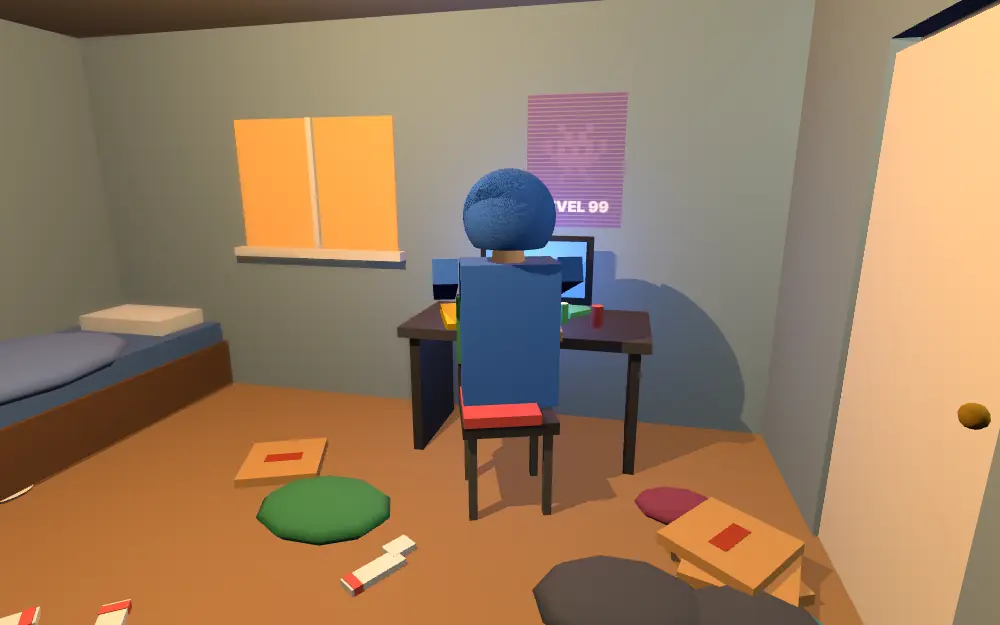
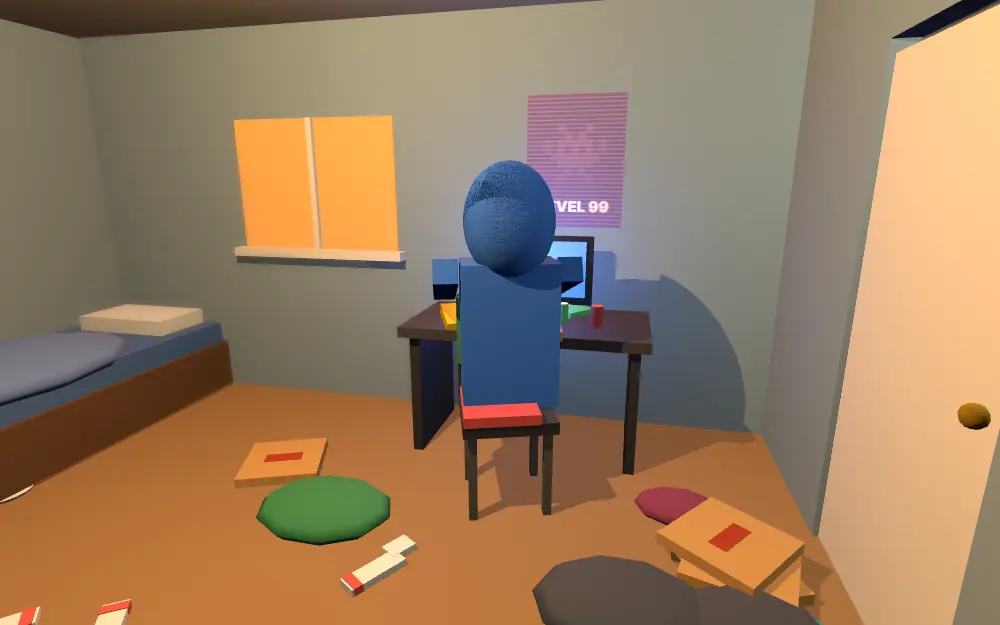
A-078 (del 1): introt v4 – rutorna 1–9, 11–12, mammas mimik och den nya huvan i hela spelet
- Huvan förlängd ner i tröjan (introFigur) – gäller du, brorsan och alla figurer med samma modell.
- Mimik som humor i poseFigur: snall, arg1, arg2, rasande, rasande+rok, forvanad, likgiltig. Rött bara på huvudet.
- Rutorna 2–9 renderade från planeringschattens vyer.json (VYER4): över axeln, lågt från golvet, från sidan,
  fredag med glid in mot mamma, den argaste med rök, du reser dig, ut förbi mamma (ny ruta 9). Du är likgiltig hela introt.
- Kalendern som liten overlay i hörnet MÅN → FRE. Ruta 7: bubblan till vänster, under röken.
- Ruta 11: ryggan sitter fast med axelremmar. Ruta 12: bredare bild där tippen syns vid sidan av skjulet.
- test-a078: facit (0ed11ca + kroken) sida vid sida med spelet i verktyg/a078/ (diff 0–1,1 %).
- test-a062v3 uppdaterad för menyn först och 14 rutor; sista rutan = spelets första bild 0,04 %.
- Rutorna 10 och 13–17 väntar på planeringschattens mockup.

Claude-Session: https://claude.ai/code/session_014156cp9JxbGsW1A8ZsF5gD

Changed region(s): [[0.465, 0.3648, 0.558, 0.4864], [0.465, 0.2432, 0.558, 0.3344], [0.651, 0.4256, 0.713, 0.5168]]

diff --git a/spel/printa-hem/spel.js b/spel/printa-hem/spel.js
@@ -11688,6 +11688,7 @@ const INTRO = [
   { lager: [{ id: 'spel', spel: 'start' }, { id: 'krita14', krita: 'skjul' }], rader: ['Tänk om det här kunde bli ett riktigt hem?', 'Utan mammas tjat.'] },
 ];
 /* A-062: rutorna 12–14 – en bild ur spelets egen kamera och krita som ritas på den */
+const GARD_KAM = [[3, 7, TOMT + 15], [-7, 1, 6], 68];   /* A-078: kameran i ruta 12 */
 const spelBildCache = {};
 function spelKamera(vy) {
   const cam = kamera.clone(); cam.rotation.order = 'YXZ';
@@ -11696,7 +11697,7 @@ function spelKamera(vy) {
     const fran = new THREE.Vector3(-1.5 - sk.x, 0, TOMT + 2.5 - sk.z).normalize();
     cam.position.set(sk.x + fran.x * 1.25 + fran.z * 0.35, sk.y + 0.42, sk.z + fran.z * 1.25 - fran.x * 0.35); cam.lookAt(sk.x, sk.y - 0.05, sk.z);
   }
-  else if (vy === 'gard') { cam.position.set(2.5, 5.5, TOMT + 9); cam.lookAt(1.5, 0, 5); cam.fov = 62; }   /* A-062 v3 ruta 11: bred bild från vägen, ingen cykel */
+  else if (vy === 'gard') { const k = GARD_KAM; cam.position.set(...k[0]); cam.lookAt(...k[1]); cam.fov = k[2]; }   /* A-078 ruta 12: tippen syns vid sidan av skjulet */   /* A-062 v3 ruta 11: bred bild från vägen, ingen cykel */
   else if (/^(tak|dorrhal|ratta)$/.test(vy)) {   /* A-062 v3 ruta 13: närbilder på skjulet */
     const zf = SKJUL.z + SKJUL.d / 2;
     if (vy === 'tak') { cam.position.set(SKJUL.x + 0.2, 1.2, SKJUL.z + 0.4); cam.lookAt(SKJUL.x - 0.1, SKJUL.h + 4, SKJUL.z - 0.9); }   // inifrån: hålet i taket mot himlen
@@ -11710,6 +11711,7 @@ function spelKamera(vy) {
 function spelBild(vy) {
   if (spelBildCache[vy]) return spelBildCache[vy];
   try {
+    if (vy === 'gard') try { ritaTippHog(0, true); } catch {}   /* A-078: berget på tippen ska synas i ruta 12 */
     const cam = spelKamera(vy), r = renderer, gs = r.getSize(new THREE.Vector2()), pr = r.getPixelRatio();
     const dold = (vy === 'gard' ? [vagCykel, malPil] : vy === 'start' ? [malPil] : /^(tak|dorrhal|ratta)$/.test(vy) ? [malPil, sangSpoke, sangSkylt, planMesh] : []).filter((o) => o?.visible);   /* närbilderna: inga spelskyltar */ dold.forEach((o) => { o.visible = false; });
     let ratta = null; if (vy === 'ratta') {   /* A-062 v3: en råtta tittar ut ur dörrhålet */
@@ -11961,7 +11963,7 @@ function visaIntroV2(klar) {
    intro (Enter hoppar över) → startmenyn → dagboken sida 1 (Börja) → spelet. Varje ruta har en fast längd,
    0,5 s tystnad innan texten, 0,3 s mellan raderna, och ingen ruta byts medan någon pratar.
    Mammas repliker är bubblor BREDVID huvudet (pilen mot henne) – huvudets plats kommer ur renderingen (BUB3). */
-const BUB3 = { v3dag2: [60.6, 36.5], v3dag3: [58, 38], v3dag4: [55.4, 39.6], v3dag5: [52.6, 41.1], v3dag6: [50.2, 43.1], v3kort7: [51.2, 43.1] };   // huvudet i % av bilden (verktyg/ai3.mjs PTS)
+const BUB3 = { v4dag2: [60.6, 36.5], v4dag3: [50, 33], v4dag4: [50, 40.9], v4dag5: [50, 43.5], v4dag6b: [50, 24.8], v4kort7: [50, 28.9], };   // huvudet i % av bilden (verktyg/ai3.mjs PTS)
 const IB3 = (namn, extra = {}) => ({ id: extra.id || namn, src: `intro/${namn}.webp`, ...extra });
 const KAL3 = (dag, fore) => ({ id: 'kal', kal: dag, fore, cls: 'vanster' });
 const IDE3 = {   /* ruta 12: idéskissen i vita konturer, i ordningen skräp → kvarn → filament → skrivare → allt man kan printa */
@@ -11980,13 +11982,14 @@ const IDE3 = {   /* ruta 12: idéskissen i vita konturer, i ordningen skräp →
 };
 const INTRO3 = [
   { tid: 3500, ljud: 'spel', lager: [IB3('v3rum1')], tal: [['berattare', 'Ditt rum.'], ['berattare', 'Ungefär som vanligt.']] },
-  { tid: 3000, lager: [IB3('v3dag2', { id: 'dag' }), KAL3('MÅNDAG')], tal: [['mamma', 'Snälla du, kan du inte städa ditt rum?', { b: 'v3dag2' }]] },
-  { tid: 1400, ljud: 'riv', lager: [IB3('v3dag3', { id: 'dag' }), KAL3('TISDAG', 'MÅNDAG')], tal: [['berattare', 'Hon sa det igen.'], ['mamma', 'STÄDA!', { b: 'v3dag3', cls: 'rop1' }]] },
-  { tid: 1400, ljud: 'riv', lager: [IB3('v3dag4', { id: 'dag' }), KAL3('ONSDAG', 'TISDAG')], tal: [['berattare', 'Och igen.'], ['mamma', 'STÄDA!!', { b: 'v3dag4', cls: 'rop2' }]] },
-  { tid: 1400, ljud: 'riv', lager: [IB3('v3dag5', { id: 'dag' }), KAL3('TORSDAG', 'ONSDAG')], tal: [['berattare', 'Och igen.'], ['mamma', 'STÄDA!!!', { b: 'v3dag5', cls: 'rop3' }]] },
-  { tid: 2500, ljud: 'dorr', lager: [IB3('v3dag6', { id: 'dag' }), IB3('v3dorr6', { cls: 'small' }), KAL3('FREDAG', 'TORSDAG')], tal: [['mamma', 'Det ser ut som en SOPTIPP här inne!', { b: 'v3dag6', fore: 500 }]] },
-  { tid: 3000, tyst: 1000, lager: [IB3('v3kort7'), { id: 'vinjett', vinjett: true }], tal: [['mamma', 'Du kan lika gärna BO på en soptipp!', { b: 'v3kort7', cls: 'rop2' }]] },
-  { tid: 4000, ljud: 'gitarr', lager: [IB3('v3kort8a', { r: 0 }), IB3('v3kort8b', { r: 1 })], tal: [['du', 'Okej.'], ['du', 'Då gör jag väl det.']] },
+  { tid: 3000, lager: [IB3('v4dag2', { id: 'dag' }), KAL3('MÅNDAG')], tal: [['mamma', 'Snälla du, kan du inte städa ditt rum?', { b: 'v4dag2' }]] },   /* A-078: introt v4 – mamma snäll */
+  { tid: 1400, ljud: 'riv', lager: [IB3('v4dag3', { id: 'dag' }), KAL3('TISDAG', 'MÅNDAG')], tal: [['berattare', 'Hon sa det igen.'], ['mamma', 'STÄDA!', { b: 'v4dag3', cls: 'rop1' }]] },   // över din axel, händerna i sidan (arg1)
+  { tid: 1400, ljud: 'riv', lager: [IB3('v4dag4', { id: 'dag' }), KAL3('ONSDAG', 'TISDAG')], tal: [['berattare', 'Och igen.'], ['mamma', 'STÄDA!!', { b: 'v4dag4', cls: 'rop2' }]] },   // lågt från golvet, hon pekar på högarna (arg2)
+  { tid: 1400, ljud: 'riv', lager: [IB3('v4dag5', { id: 'dag' }), KAL3('TORSDAG', 'ONSDAG')], tal: [['berattare', 'Och igen.'], ['mamma', 'STÄDA!!!', { b: 'v4dag5', cls: 'rop3' }]] },   // från sidan, armen rakt upp (arg2)
+  { tid: 3200, ljud: 'dorr', lager: [IB3('v4dag6a', { id: 'dag', cls: 'glidin' }), IB3('v4dorr6', { cls: 'small' }), IB3('v4dag6b', { r: 0, cls: 'glidsen' }), KAL3('FREDAG', 'TORSDAG')], tal: [['mamma', 'Det ser ut som en SOPTIPP här inne!', { b: 'v4dag6b', fore: 1700 }]] },   // dörren smäller upp, kameran glider in mot henne (rasande)
+  { tid: 3000, tyst: 1000, lager: [IB3('v4kort7'), { id: 'vinjett', vinjett: true }], tal: [['mamma', 'Du kan lika gärna BO på en soptipp!', { b: 'v4kort7', cls: 'rop1', vanster: true }]] },   // rakt in i ansiktet, fingret mot kameran (rasande+rök)
+  { tid: 4000, ljud: 'gitarr', lager: [IB3('v4kort8')], tal: [['du', 'Okej.'], ['du', 'Då gör jag väl det.']] },   // du reser dig vid datorn, mamma pekar ut genom dörren
+  { tid: 2600, lager: [IB3('v4kort9', { cls: 'folj' })], tal: [] },   // A-078 ruta 9: ut förbi mamma, kameran följer med dig ut (mamma förvånad)
   { tid: 4000, ljud: 'band', lager: [IB3('v3pack9')], tal: [['du', 'Jag packar ryggan med sånt som kan vara bra att ha.'], ['du', 'Och surrar fast brorsans gamla 3D-skrivare på cykeln.']] },
   { tid: 5000, musik: true, lager: [{ id: 'vagloop', loop: 'intro/vag.webp' }, { id: 'cyklist', sprite: 'intro/cyklist-tramp.webp', n: 4 }], tal: [['berattare', 'Förbi skolan.'], ['berattare', 'Förbi affären.'], ['berattare', 'Förbi där husen tar slut.']] },
   { tid: 3500, ljud: 'masar', lager: [{ id: 'spelgard', spel: 'gard' }], tal: [['berattare', 'Vid soptippen står ett gammalt skjul.'], ['berattare', 'Och en gård full av skräp.']] },
@@ -11996,7 +11999,13 @@ const INTRO3 = [
 ];
 const introCss3 = document.createElement('style');
 introCss3.textContent = `
-.ph-il.kal.vanster{right:auto;left:5%}
+.ph-il.kal.vanster{right:auto;left:4%;top:5%;width:11%}
+.ph-il.glidin{transform-origin:50% 37%;animation:phGlidIn 2.4s .9s ease-in-out forwards}
+@keyframes phGlidIn{to{transform:scale(1.5)}}
+.ph-il.glidsen{opacity:0;animation:phGlidSen .7s 1.1s ease-in forwards}
+@keyframes phGlidSen{to{opacity:1}}
+.ph-il.folj{transform-origin:85% 40%;animation:phFolj 2.6s ease-in-out forwards}
+@keyframes phFolj{from{transform:scale(1.08) translateX(3%)}to{transform:scale(1.18) translateX(-4%)}}
 .ph-bub{position:absolute;z-index:6;background:#fff;color:#1d1a24;font:800 clamp(14px,2.1vw,22px)/1.2 "Comic Sans MS","Chalkboard SE",system-ui;padding:.45em .8em;border-radius:16px;box-shadow:0 4px 0 rgba(0,0,0,.25);max-width:36%;animation:phBub .25s ease-out}
 .ph-bub:after{content:"";position:absolute;top:50%;margin-top:-10px;border:10px solid transparent}
 .ph-bub.hoger:after{left:-24px;border-right:16px solid #fff}.ph-bub.vanster:after{right:-24px;border-left:16px solid #fff}
@@ -12061,7 +12070,8 @@ function visaIntro3(klar, o = {}) {
   const bubbla = (p, text, o) => {
     const h = BUB3[o.b] || [50, 30], hoger = h[0] < 58, b = document.createElement('div');
     b.className = `ph-bub hoger ${o.cls || ''}`; void hoger; b.textContent = text;
-    b.style.top = `${Math.max(3, h[1] - 9)}%`; b.style.left = `${h[0] + 8}%`; b.style.maxWidth = `${Math.max(22, 98 - h[0] - 8)}%`;   /* alltid till höger om mamma, aldrig över ditt eller hennes ansikte */
+    b.style.top = `${Math.max(3, h[1] - 9)}%`; b.style.left = `${h[0] + 8}%`; b.style.maxWidth = `${Math.max(22, 98 - h[0] - 8)}%`;
+    if (o.vanster) { b.className = `ph-bub vanster ${o.cls || ''}`; b.style.left = 'auto'; b.style.right = `${100 - h[0] + 13}%`; b.style.top = `${h[1] + 6}%`; b.style.maxWidth = `${Math.max(22, h[0] - 15)}%`; }   /* A-078 ruta 7: ansiktet fyller mitten – bubblan till vänster, under röken */   /* alltid till höger om mamma, aldrig över ditt eller hennes ansikte */
     scenEl.appendChild(b);
     requestAnimationFrame(() => { const s = scenEl.getBoundingClientRect(), r = b.getBoundingClientRect(); logg('bubbla', JSON.stringify({ bub: [(r.left - s.left) / s.width * 100, (r.top - s.top) / s.height * 100, (r.right - s.left) / s.width * 100, (r.bottom - s.top) / s.height * 100].map((v) => +v.toFixed(1)), huvud: h, text })); });
     return b;
@@ -14025,7 +14035,7 @@ function introFigur(vem) {
     const mossa = new THREE.Mesh(new THREE.SphereGeometry(0.19, 16, 10, 0, Math.PI * 2, 0, Math.PI * 0.45), mat(0x2f6a5a)); mossa.position.y = 0.035; huvud.add(mossa);
     huvud.add(at(cyl(0.185, 0.19, 0.06, mat(0x285a4c)), 0, 0.06, 0)); huvud.add(at(new THREE.Mesh(new THREE.SphereGeometry(0.05, 8, 6), mat(0xd8d0c0)), 0, 0.22, 0));
   }
-  if (vem !== 'mamma' && !helen) { const luva = new THREE.Mesh(new THREE.SphereGeometry(0.215, 16, 12, Math.PI - 0.5, Math.PI + 1.0, 0, Math.PI * 0.72), mat(0x2d6cdf, { side: THREE.DoubleSide })); luva.position.set(0, -0.01, -0.03); huvud.add(luva); }
+  if (vem !== 'mamma' && !helen) { const luva = new THREE.Mesh(new THREE.SphereGeometry(0.215, 18, 14, Math.PI - 0.55, Math.PI + 1.1, 0, Math.PI * 0.93), mat(0x2d6cdf, { side: THREE.DoubleSide })); luva.scale.set(1, 1.28, 1.02); luva.position.set(0, -0.035, -0.03); huvud.add(luva); }   /* A-078: huvan förlängd ner i tröjan (Jesper 00:59: "så ska de vara framåt") */
   const fore = huvud.children.length;
   ansikte(huvud, 0, { bryn: vem === 'mamma' ? 0.12 : -0.05, brynFarg: helen ? 0x8a857c : 0x4a2e1a, nasa: 0xd9a07a, munFarg: vem === 'mamma' ? 0xb83a52 : 0x5a2a20 });
   const delar = huvud.children.slice(fore), bryn = delar.filter((o) => o.geometry?.parameters?.width === 0.075), mun = delar[delar.length - 1];
@@ -14132,14 +14142,43 @@ function byggIntroRum() {
   sc.add(sack);
   const skriv = gammal.clone(true); skriv.position.set(0, 0, 0); sc.add(skriv);
   const damm = new THREE.Group(); for (let i = 0; i < 14; i++) { const d = new THREE.Mesh(new THREE.SphereGeometry(0.05 + r() * 0.06, 6, 4), new THREE.MeshStandardMaterial({ color: 0xd9cfb8, transparent: true, opacity: 0.55 })); d.position.set(2.3 + r() * 0.5, r() * 1.8, -0.9 + r() * 1.1); damm.add(d); } sc.add(damm);
-  return { sc, dorr, kal, mamma, du, sack, skriv, damm, stok, lampa };
+  return { sc, dorr, kal, mamma, du, sack, skriv, damm, stok, lampa, stol };
 }
 function introKamera(pos, mal, fov = 50, aspect = 1.6) { const k = new THREE.PerspectiveCamera(fov, aspect, 0.1, 200); k.position.set(...pos); k.lookAt(...mal); return k; }
 // humor: 'neutral', 'arg' (ögonbryn ner), 'rasande' (rött ansikte). pekaMot: en punkt i världen som högra armen pekar mot.
+/* A-078: mimik – snall, arg1, arg2, rasande, rasande+rok, forvanad, likgiltig (facit: mockup-intro, kroken __introDev.mimik). Rött bara på huvudet. */
+const MIMIK = ['snall', 'arg1', 'arg2', 'rasande', 'rasande+rok', 'forvanad', 'likgiltig'];
+function figurMimik(f, m) {
+  const u = f.userData; if (!u.mimikDelar) u.mimikDelar = [];
+  u.mimikDelar.forEach((o) => o.parent?.remove(o)); u.mimikDelar = []; u.mun.visible = true; u.mun.rotation.set(0, 0, 0);
+  if (!u.huvudHud) { u.huvudHud = u.hud.clone(); u.huvud.traverse((o) => { if (o.isMesh && o.material === u.hud) o.material = u.huvudHud; }); }   /* eget material för ansiktet, så att händerna inte blir röda */
+  u.huvudHud.color.copy(u.hud.color);
+  if (!m) return;
+  const add = (o, p = u.huvud) => { p.add(o); u.mimikDelar.push(o); return o; };
+  const bryn = (rot, y = 0.08) => u.bryn.forEach((b) => { const v = b.position.x < 0; b.rotation.z = v ? rot : -rot; b.position.y = y; b.scale.set(1, 1, 1); });
+  const munPos = u.mun.position.clone(), munMat = u.mun.material;
+  u.hud.color.setHex(u.hudFarg); u.huvudHud.color.setHex(u.hudFarg);
+  if (m === 'snall') { bryn(0.15, 0.09); u.mun.visible = false; const t = add(new THREE.Mesh(new THREE.TorusGeometry(0.045, 0.011, 6, 14, Math.PI), munMat)); t.position.copy(munPos).add(new THREE.Vector3(0, 0.02, 0)); t.rotation.z = Math.PI; }
+  if (m === 'arg1') { bryn(-0.35, 0.075); u.mun.scale.set(1.2, 0.12, 0.4); }
+  if (m === 'arg2') { bryn(-0.55, 0.068); u.mun.visible = false; const t = add(new THREE.Mesh(new THREE.TorusGeometry(0.045, 0.012, 6, 14, Math.PI), munMat)); t.position.copy(munPos).add(new THREE.Vector3(0, -0.02, 0)); }
+  if (m === 'rasande' || m === 'rasande+rok') {
+    bryn(-0.7, 0.062); u.huvudHud.color.setHex(0xe0503c); u.mun.scale.set(1.5, 0.9, 0.4);
+    const tand = add(box(0.07, 0.015, 0.01, mat(0xffffff))); tand.position.copy(munPos).add(new THREE.Vector3(0, 0.022, 0.02));
+    if (m === 'rasande+rok') for (const sx of [-1, 1]) for (let i = 0; i < 4; i++) { const r = add(new THREE.Mesh(new THREE.SphereGeometry(0.035 + i * 0.022, 8, 6), new THREE.MeshStandardMaterial({ color: 0xf2f2f2, transparent: true, opacity: 0.85 - i * 0.15 }))); r.position.set(sx * (0.2 + i * 0.06), 0.02 + i * 0.07, -0.02); }
+  }
+  if (m === 'forvanad') {
+    bryn(0.35, 0.135); u.bryn.forEach((b) => { b.scale.set(1.15, 1, 1); }); u.mun.visible = false; const p = munPos.clone().add(new THREE.Vector3(0, -0.012, 0.006));
+    const inne = add(new THREE.Mesh(new THREE.CircleGeometry(0.042, 20), new THREE.MeshBasicMaterial({ color: 0x1a0608 }))); inne.scale.set(0.85, 1.25, 1); inne.position.copy(p).add(new THREE.Vector3(0, 0, 0.006));
+    const tunga = add(new THREE.Mesh(new THREE.CircleGeometry(0.022, 14, 0, Math.PI), mat(0xc84a5a))); tunga.rotation.z = Math.PI; tunga.position.copy(p).add(new THREE.Vector3(0, -0.028, 0.009));
+    const l = add(new THREE.Mesh(new THREE.TorusGeometry(0.043, 0.011, 8, 20), munMat)); l.scale.set(0.85, 1.25, 1); l.position.copy(p).add(new THREE.Vector3(0, 0, 0.004));
+  }
+  if (m === 'likgiltig') { bryn(0, 0.075); u.mun.scale.set(0.9, 0.08, 0.4); }
+}
 function poseFigur(f, { x = 0, z = 0, rot = 0, motKamera = null, pekaMot = null, armarUpp = false, handerISidan = false, humor = 'neutral', synlig = true } = {}) {
   f.visible = synlig; f.position.set(x, 0, z); f.rotation.set(0, motKamera ? Math.atan2(motKamera[0] - x, motKamera[2] - z) : rot, 0);
   const u = f.userData; u.hoger.quaternion.identity(); u.vanster.quaternion.identity(); u.huvud.rotation.set(0, 0, 0); u.finger.visible = false;
-  u.hud.color.setHex(humor === 'rasande' ? 0xec8a78 : u.hudFarg);
+  figurMimik(f, null); u.bryn.forEach((b) => b.scale.set(1, 1, 1));
+  u.hud.color.setHex(u.hudFarg);   /* A-078: rött ansikte sköts av figurMimik, bara på huvudet */
   u.bryn.forEach((b) => { const v = b.position.x < 0; b.rotation.z = humor === 'neutral' ? (v ? 0.12 : -0.12) : (v ? -0.45 : 0.45); b.position.y = humor === 'neutral' ? 0.085 : 0.07; });
   u.mun.scale.set(humor === 'rasande' ? 1.1 : 1.3, humor === 'rasande' ? 0.75 : humor === 'arg' ? 0.15 : 0.25, 0.4);
   if (handerISidan) { u.hoger.rotation.set(0, 0, 0.55); u.vanster.rotation.set(0, 0, -0.55); }
@@ -14150,6 +14189,8 @@ function poseFigur(f, { x = 0, z = 0, rot = 0, motKamera = null, pekaMot = null,
     const lokal = dir.applyQuaternion(f.quaternion.clone().invert());
     u.hoger.quaternion.setFromUnitVectors(new THREE.Vector3(0, -1, 0), lokal); u.finger.visible = true;
   }
+  if (MIMIK.includes(humor)) figurMimik(f, humor);
+  else if (u.huvudHud) u.huvudHud.color.copy(u.hud.color);
 }
 // rendera en scen i bredd × höjd och gör bakgrunden lite suddig (skärpedjup ungefär). nara = suddigt även nära kameran.
 function introRendera(sc, kam, W, H, fokus, { nara = false, gra = 0 } = {}) {
@@ -14320,15 +14361,66 @@ function duPaCykel(medSkrivare = true, fas = 0) {
   u.ben[0].rotation.x = -0.55 - 0.35 * Math.sin(v); u.ben[1].rotation.x = -0.55 + 0.35 * Math.sin(v);
   for (const a of [u.hoger, u.vanster]) a.quaternion.setFromUnitVectors(new THREE.Vector3(0, -1, 0), new THREE.Vector3(0, -0.45, 1).normalize());
   cy.children.filter((o) => Math.abs(o.rotation.z - 0.5) < 0.01).forEach((o) => { o.visible = false; });   // stödet uppfällt
-  const sack = introRum.sack.clone(true); sack.visible = true; sack.position.set(0, 1.0, -0.33); sack.rotation.y = Math.PI; sack.scale.setScalar(0.95); du.add(sack);
+  const sack = introRum.sack.clone(true); sack.visible = true; sack.position.set(0, 1.0, -0.25); sack.rotation.y = Math.PI; sack.scale.setScalar(0.95); du.add(sack);
+  const rem = mat(0x2a2a2a); for (const x of [-0.13, 0.13]) { du.add(at(box(0.06, 0.42, 0.025, rem), x, 1.32, 0.148)); du.add(at(box(0.07, 0.025, 0.31, rem), x, 1.56, 0)); }
+  for (const x of [-0.24, 0.24]) { const r = at(box(0.025, 0.06, 0.34, rem), x, 1.3, -0.02); r.rotation.x = -0.75; du.add(r); }   /* A-078 ruta 11: ryggan sitter fast med axelremmar */
   return g;
 }
 const DU_CYKEL_KAM = () => introKamera([0, 0.95, 3.4], [0, 0.95, 0], 38, 1);   // från sidan: cykeln åker åt höger i bilden
+/* A-078: introt v4 – kameror och poser per ruta (facit: mockup-intro, vyer.json; mimik som humor). Du är likgiltig genom hela introt. */
+const VYER4 = {
+  v4dag3: {"kam":[[0.55,1.45,-0.35],[2.35,1.45,-0.45]],"fov":55,"stok":0.4,"du":{"x":1.0,"z":-0.95,"rot":3.491592653589793,"sitt":true,"lookAt":[2.3,1.5,-0.4],"humor":"likgiltig"},"mamma":{"x":2.35,"z":-0.45,"motKamera":[1.0,0,-0.95],"humor":"arg1","handerISidan":true,"lookAt":[1.0,1.15,-0.95]},"fokus":1.9},   // 3-tisdag
+  v4dag4: {"kam":[[1.55,0.35,0.55],[2.25,1.5,-0.4]],"fov":60,"stok":0.6,"du":{"x":1.0,"z":-0.95,"rot":3.491592653589793,"sitt":true,"lookAt":[2.3,1.5,-0.4],"humor":"likgiltig"},"mamma":{"x":2.25,"z":-0.4,"motKamera":[1.0,0,0.5],"humor":"arg2","pekaMot":[1.2,0.0,0.7],"lookAt":[1.0,1.15,-0.95]},"fokus":1.6},   // 4-onsdag
+  v4dag5: {"kam":[[0.95,1.35,0.25],[2.15,1.65,-0.45]],"fov":64,"stok":0.85,"du":{"x":1.0,"z":-0.95,"rot":3.491592653589793,"sitt":true,"lookAt":[2.3,1.5,-0.4],"humor":"likgiltig"},"mamma":{"x":2.15,"z":-0.45,"motKamera":[1.0,0,-0.95],"humor":"arg2","armarUpp":true,"lookAt":[1.0,1.15,-0.95]},"fokus":1.4},   // 5-torsdag
+  v4dag6a: {"kam":[[0.0,1.55,1.3],[2.2,1.4,-0.4]],"fov":56,"stok":1,"du":{"x":1.0,"z":-0.95,"rot":3.491592653589793,"sitt":true,"lookAt":[2.3,1.5,-0.4],"humor":"likgiltig"},"mamma":{"x":2.2,"z":-0.4,"motKamera":[1.0,0,-0.95],"humor":"rasande","pekaMot":[1.0,1.15,-0.95],"lookAt":[1.0,1.15,-0.95]},"fokus":2.6},   // 6a-fredag
+  v4dag6b: {"kam":[[1.25,1.55,0.35],[2.2,1.45,-0.4]],"fov":56,"stok":1,"du":{"x":1.0,"z":-0.95,"rot":3.491592653589793,"sitt":true,"lookAt":[2.3,1.5,-0.4],"humor":"likgiltig"},"mamma":{"x":2.2,"z":-0.4,"motKamera":[1.0,0,-0.95],"humor":"rasande","pekaMot":[1.0,1.15,-0.95],"lookAt":[1.0,1.15,-0.95]},"fokus":1.3},   // 6b-fredag-nara
+  v4kort7: {"kam":[[1.2,1.5,-0.3],[2.25,1.55,-0.4]],"fov":52,"stok":1,"lampa":9,"mamma":{"x":2.25,"z":-0.4,"motKamera":[1.55,0,-0.32],"humor":"rasande+rok","pekaMot":[1.2,1.45,-0.15],"lookAt":[1.2,1.5,-0.3]},"fokus":1.0,"nara":true},   // 7-argast
+  v4kort8: {"kam":[[-0.9,1.25,-0.55],[1.6,1.05,-0.6]],"fov":58,"stok":1,"du":{"x":1.0,"z":-0.95,"motKamera":[2.05,0,0.45],"lookAt":[2.05,1.55,0.45],"humor":"likgiltig"},"mamma":{"x":2.05,"z":0.45,"motKamera":[0.4,0,-0.9],"humor":"rasande","pekaVanster":[3.9,1.4,-0.45],"lookAt":[1.0,1.45,-0.95]},"fokus":2.6,"stol":[1.75,-1.5,-0.6]},   // 8-reser-sig
+  v4kort9: {"kam":[[4.5,1.55,-0.95],[2.5,1.4,-0.35]],"fov":58,"stok":1,"du":{"x":3.5,"z":-1.3,"motKamera":[5.5,0,-1.5],"steg":true,"humor":"likgiltig"},"mamma":{"x":2.45,"z":0.0,"motKamera":[3.55,0,-1.45],"chock":true,"lookAt":[3.55,1.5,-1.45],"humor":"forvanad"},"fokus":1.9},   // 9-ut-forbi
+};
+/* A-078: rendera en vy ur VYER4 i intro-rummet (samma steg som planeringschattens krok) */
+function introVy4(o, W, H, matt) {
+  const R = introRum;
+  R.dorr.rotation.y = o.dorr ?? -1.6; R.damm.visible = false; R.sack.visible = false; R.skriv.visible = false; R.lampa.intensity = o.lampa ?? 12;
+  R.stok.forEach((x, i) => { x.visible = i < R.stok.length * (o.stok ?? 0.6); }); R.kal.visible = false;
+  const st = R.stol; if (st) { st.userData.hem ||= [st.position.x, st.position.z, st.rotation.y]; const [x, z, r] = o.stol || st.userData.hem; st.position.x = x; st.position.z = z; st.rotation.y = r; }
+  poseFigur(R.du, { synlig: false }); poseFigur(R.mamma, { synlig: false });
+  R.du.position.y = 0; R.du.userData.ben.forEach((b) => { b.rotation.x = 0; });
+  if (o.du) {
+    poseFigur(R.du, o.du); const u = R.du.userData;
+    if (o.du.sitt) { R.du.position.y = -0.33; u.ben.forEach((b) => { b.rotation.x = -Math.PI / 2; }); for (const a of [u.hoger, u.vanster]) a.quaternion.setFromUnitVectors(new THREE.Vector3(0, -1, 0), new THREE.Vector3(0, -0.3, 1).normalize()); }
+    if (o.du.lookAt) u.huvud.lookAt(...o.du.lookAt);
+    if (o.du.steg) { u.ben[0].rotation.x = 0.45; u.ben[1].rotation.x = -0.45; }
+  }
+  if (o.mamma) {
+    const f = R.mamma, u = f.userData; poseFigur(f, o.mamma); if (o.mamma.lookAt) u.huvud.lookAt(...o.mamma.lookAt);
+    if (o.mamma.pekaVanster) { f.updateMatrixWorld(true); const axel = u.vanster.getWorldPosition(new THREE.Vector3()), dir = new THREE.Vector3(...o.mamma.pekaVanster).sub(axel).normalize().applyQuaternion(f.quaternion.clone().invert()); u.vanster.quaternion.setFromUnitVectors(new THREE.Vector3(0, -1, 0), dir); }
+  }
+  const kam = introKamera(o.kam[0], o.kam[1], o.fov || 55, W / H);
+  const c = matt ? matta(R.sc, kam, W, H, matt) : introRendera(R.sc, kam, W, H, o.fokus || 2.2, { nara: !!o.nara });
+  const pts = {}; if (o.mamma) { R.mamma.updateMatrixWorld(true); const p = R.mamma.userData.huvud.getWorldPosition(new THREE.Vector3()).project(kam); pts.huvud = [+((p.x + 1) / 2 * 100).toFixed(1), +((1 - p.y) / 2 * 100).toFixed(1)]; }
+  if (o.du) { R.du.updateMatrixWorld(true); const p = R.du.userData.huvud.getWorldPosition(new THREE.Vector3()).project(kam); pts.du = [+((p.x + 1) / 2 * 100).toFixed(1), +((1 - p.y) / 2 * 100).toFixed(1)]; }
+  return { c, pts };
+}
+/* A-078 test: närbilder av mimiken (samma vinkel som facit p0–p6) */
+function mimikBilder() {
+  if (!introRum) introRum = byggIntroRum();
+  const ut = {}, kam = [[1.3, 1.62, -0.36], [2.2, 1.68, -0.4]];
+  [['p0-snall', 'snall'], ['p1-arg1', 'arg1'], ['p2-arg2', 'arg2'], ['p3-rasande', 'rasande'], ['p4-rasande+rok', 'rasande+rok'], ['p5-forvanad', 'forvanad'], ['p6-du-likgiltig', 'likgiltig', true]].forEach(([n, m, du]) => {
+    ut[n] = introVy4({ kam, fov: du ? 40 : 34, stok: 1, fokus: 0.9, [du ? 'du' : 'mamma']: { x: 2.2, z: -0.4, motKamera: [1.3, 0, -0.36], lookAt: [1.3, 1.62, -0.36], humor: m } }, 1000, 625).c.toDataURL('image/jpeg', 0.9);
+  });
+  {   /* spelets figurer med samma modell: Helen, brorsan (huvan), mamma, du */
+    const sc = introLjusScen(0xa8d4f0), fig = [['helen', 'snall'], ['bror', 'snall'], ['mamma', 'forvanad'], ['du', 'likgiltig']].map(([v, m], i) => { const f = introFigur(v); poseFigur(f, { x: -1.5 + i, z: 0, motKamera: [0, 0, 4], humor: m }); sc.add(f); return f; });
+    sc.add(at(box(8, 0.05, 4, mat(0x6fae4a)), 0, -0.025, 0));
+    ut['figurer'] = introRendera(sc, introKamera([0.6, 1.6, 3.6], [0, 1.3, 0], 50, 1.6), 1000, 625, 3.6).toDataURL('image/jpeg', 0.9); void fig;
+  }
+  return ut;
+}
 function introLager(namn, W = 1000, H = 625) {
   if (!introRum) introRum = byggIntroRum();
   const R = introRum, sc = R.sc;
   const stok = (fran, till) => R.stok.forEach((o, i) => { o.visible = i >= R.stok.length * fran && i < R.stok.length * till; });
-  const aterstall = () => { R.dorr.rotation.y = -1.25; R.damm.visible = false; R.sack.visible = false; R.skriv.visible = false; R.lampa.intensity = 14; poseFigur(R.du, { synlig: false }); poseFigur(R.mamma, { synlig: false }); stok(0, 1); };
+  const aterstall = () => { if (R.stol.userData.hem) { const [x, z, r] = R.stol.userData.hem; R.stol.position.x = x; R.stol.position.z = z; R.stol.rotation.y = r; } R.dorr.rotation.y = -1.25; R.damm.visible = false; R.sack.visible = false; R.skriv.visible = false; R.lampa.intensity = 14; poseFigur(R.du, { synlig: false }); poseFigur(R.mamma, { synlig: false }); stok(0, 1); };
   aterstall();
   const kamDorr = [1.45, 1.55, 0.45], mammaDorr = [2.5, -0.4], kd = () => introKamera(kamDorr, [mammaDorr[0], 1.3, mammaDorr[1]], 58, W / H);
   R.kal.visible = !/^(rum|stok|mamma|dorr|v3dag|v3dorr)/.test(namn) || namn === 'rum1';   // kalendern är ett eget lager (SVG) i kort 2–6
@@ -14370,10 +14462,17 @@ function introLager(namn, W = 1000, H = 625) {
     return ut(introRendera(sc, k, W, H, 2.1, { nara: true }));
   }
   /* A-062 v3: nya bilder – du vid datorn, mamma som kommer närmare och lägre för varje dag, ruta 7, 8 och 9 */
-  const sitt = (f, x, z, rot) => { poseFigur(f, { x, z, rot }); f.position.y = -0.33; const u = f.userData; u.ben.forEach((b) => { b.rotation.x = -Math.PI / 2; }); for (const a of [u.hoger, u.vanster]) a.quaternion.setFromUnitVectors(new THREE.Vector3(0, -1, 0), new THREE.Vector3(0, -0.35, 1).normalize()); };
+  const sitt = (f, x, z, rot) => { poseFigur(f, { x, z, rot, humor: f === R.du ? 'likgiltig' : 'neutral' }); f.position.y = -0.33; const u = f.userData; u.ben.forEach((b) => { b.rotation.x = -Math.PI / 2; }); for (const a of [u.hoger, u.vanster]) a.quaternion.setFromUnitVectors(new THREE.Vector3(0, -1, 0), new THREE.Vector3(0, -0.35, 1).normalize()); };
   const huvudPts = (kam, f) => { f.updateMatrixWorld(true); const v = f.userData.huvud.getWorldPosition(new THREE.Vector3()).project(kam); return { huvud: [+((v.x + 1) / 2 * 100).toFixed(1), +((1 - v.y) / 2 * 100).toFixed(1)] }; };
   const DU_STOL = [1.0, -0.95], DU_HUVUD = [1.0, 1.25, -0.95];   /* Jesper 15:56: mamma pratar med dig vid datorn – hon tittar på dig, inte in i rummet */
   const DAGKAM = (k) => { const t = k / 4, lerp = (a, b) => a + (b - a) * t; return introKamera([lerp(-0.9, 0.2), lerp(1.6, 0.55), lerp(1.5, 0.7)], [lerp(1.85, 2.05), lerp(1.25, 1.45), lerp(-0.75, -0.55)], lerp(56, 70), W / H); };
+  if (VYER4[namn]) { const { c, pts } = introVy4(VYER4[namn], W, H); return ut(c, pts); }
+  if (namn === 'v4dorr6') { const o = { ...VYER4.v4dag6a, dorr: 0 }; const { c } = introVy4(o, W, H, [R.dorr]); return ut(c); }   // stängd dörr som smäller upp i ruta 6
+  if (namn === 'v4dag2') {   // ruta 2 som förut, men mamma snäll
+    const kam = DAGKAM(0); stok(0, 0.25); sitt(R.du, DU_STOL[0], DU_STOL[1], Math.PI + 0.35); R.dorr.rotation.y = -1.6;
+    poseFigur(R.mamma, { x: mammaDorr[0], z: mammaDorr[1], motKamera: [DU_STOL[0], 0, DU_STOL[1]], humor: 'snall' }); R.mamma.userData.huvud.lookAt(...DU_HUVUD);
+    return ut(introRendera(sc, kam, W, H, 2.3), huvudPts(kam, R.mamma));
+  }
   if (namn === 'v3rum1') { stok(0, 1); R.dorr.rotation.y = 0; sitt(R.du, 1.0, -0.95, Math.PI + 0.35); return ut(introRendera(sc, introKamera([1.55, 1.6, 1.55], [0.9, 0.9, -1.2], 60, W / H), W, H, 2.6)); }
   if (/^v3dag[2-6]$/.test(namn)) {
     const k = +namn[5] - 2, kam = DAGKAM(k); stok(0, [0.25, 0.4, 0.6, 0.85, 1][k]);
@@ -15700,7 +15799,7 @@ function malKontrakt(st = STEG[S.steg]) {
 window.__printahem = { renderer, saljTillAli: (t, n) => saljTillAli(t, n), saljPris: (t) => saljPris(t), aliReplNu: () => aliRepl, krT, kollaPrestationer: () => kollaPrestationer(), B, gruvTillGrotta: () => { gruvFard = { t: GRUV_SLUT_T, ner: true }; gruvLage = 'fard'; gruvFramme(); return gruvLage; }, gruvFart: (t, n) => gruvFart(t, n), gruvKameraVid: (t, ner = true) => { const g = gruvFard; gruvFard = { t, ner }; gruvPlacera(gruvVagn, t, ner ? 1 : -1); gruvKamera(); gruvFard = g; }, gruvAk: (ner) => gruvAk(ner), gruvLage: () => gruvLage, gruvFard: () => gruvFard, gruvScen, GRUV_BANA, GRUV_LANGD, GRUV_GC, GRUV_SLUT_T, gruvVagn, bergYta, bengtHus, bengtTradgard, slyKlumpar, sagaSly: (kl) => sagaSly(kl), solparkStor: () => solparkStor(), uppdateraRitning: (dt) => uppdateraRitning(dt), SVACKA, GRUVA, SVACKA_VAG, svackaHojd, svackaSparr, BOMMAR, grop, VASK, stegText: () => stegText(STEG[S.steg]), oppnaMarknad: () => oppnaMarknad(), ritningNu: () => ritning, fastIHanden, konturMal, genStar, GEN_PLATS, CYKEL_RUTA, sangSpoke, kvarnMark, tippHojd, markY, sattTippSteg: (n, snap = true) => { S.tippSteg = n; ritaTippHog(0.05, snap); return tippStegNu; }, tippStegNu: () => tippStegNu, tippU, tippKant, TIPP_HV, husvagnG: () => husvagnG, husvagnHinder, TIPP_INB, tippMalSteg: () => tippMalSteg(), tippSparr, STORYKEDJA, STORYKEDJA_VERSION, KEDJA_TEXT, besokTick: (dt) => uppdateraBesok(dt), froSett: (id, s) => froSett(id, s), froSpoiler, STORYLAGER, FRO_T, kameraAkSteg: (t, frys = false) => { if (!kameraAk) return false; kameraAk.start = performance.now() - t * 1000; kameraAk.frys = frys ? t : null; uppdateraKameraAk(); renderer.render(scen, kamera); return true; }, startaUtsikt: () => startaUtsikt(), tippSvep: () => tippSvep(), visaForeEfter: () => visaForeEfter(), kulle, kameraAk: () => kameraAk, kollaUtsikt: () => kollaUtsikt(), bilFas: () => bil.fas, sopbil, kollaBengt: (dt) => kollaBengt(dt), bengtFig: bengt, privatSkyltar, bengtGrav, stromBehov, solEffekt, FLASK_FORE, spelBild, spelBildCache, startBild: () => { const r = renderer, gs = r.getSize(new THREE.Vector2()), pr = r.getPixelRatio(); kamera.aspect = 1.6; kamera.updateProjectionMatrix(); r.setPixelRatio(1); r.setSize(1280, 800, false); r.render(scen, kamera); const C = document.createElement('canvas'); C.width = 1280; C.height = 800; C.getContext('2d').drawImage(r.domElement, 0, 0); r.setPixelRatio(pr); r.setSize(gs.x, gs.y, false); kamera.aspect = gs.x / gs.y; kamera.updateProjectionMatrix(); return C.toDataURL('image/jpeg', 0.86); }, tidigFanfar, bengtLada, GROP, GRIND, grop, grusGrind, rolfKaparGrinden: () => rolfKaparGrinden(), ritaGrustag: () => ritaGrustag(), kollaBengtAvslojande: () => kollaBengtAvslojande(), BENGT_HUS, BENGT_LADA, BENGT_GRAV, bengtLadaHandlare, ritaNyckelSkylt: () => ritaNyckelSkylt(), kjelleText: (x) => kjelleText(x), HUMOR_T, boterFor: (m) => boterFor(m), boterSyns: (b) => boterSyns(b), CHEFEN, labb, LABB, BAGAR, TRADAR, aktivaTradar, kollaBagar: (t) => kollaBagar(t), kollaLabb: () => kollaLabb(), efterspelTest: () => efterspelTest(), vaskSlapp: (t) => vaskSlapp(t), ader, ritaStart: () => ritaStart(), vev3d: () => vev, dagMoment: (d) => dagMoment(d), SAKER, malKontrakt, rullLapp, THREE, TS, visaLapp: (id) => visaLapp(id), fotografera: (p) => fotografera(p), POLAROID, aliNejFor: (t) => aliNejFor(t), ROLF_LISTA: () => ROLF, STORY_SAKER, hoppaOver, prataNu, volym, rostLage: () => rostLage(), pratarNu: () => performance.now() < pratarTill, valjOsagd, sakModell, ikonModell, ikonLista, renderaIkon, kand, regelvakt, upplast, lasUpp, UPPLAS_FLASK, finns, startTorn, vevEl, MONTERA, TA_PA, taPaVald, monteraPa, notis, malSynligt: () => malVisasSteg === S.steg, kanalLage: () => ({ pausad, igang: ui.igang, anim: animationPagar(), scen: scenPagar(), med: !medEl2.hidden, butik: !ui.butiksOverlay.hidden, overlay: !ui.overlay.hidden, aktiv: kanalAktiv?.text?.slice(0, 40), fri: kanalFri - performance.now(), pratar: pratarTill - performance.now(), lugn: lugnTill - performance.now(), n: kanal.length }), paket, oppnaSaljlada, TRATT_MAX, giAliBonus, tangentTips, stromMax, byggBodTest: () => { Object.assign(bodVal, { ok: true, x: BOD.x, z: BOD.z, r: BOD.r }); byggBodHar(); return !!S.bod; }, aliVill, smsKortKlart, smsFram, smsBubbla, ritaDN, markeraAliIdag, dnRaknare, filTillg, dragTorn, tornPlats, tornRullar, slangNar, rullTornAktivera, flyttaSkrivarRullar, anvandSkrivare,
   framsteg, skrivarText, framstegKvarn,
   dbgKanal: () => ({ nu: performance.now(), pratarTill, pratarVem, kanalFri, aktiv: kanalAktiv && kanalAktiv.text, n: kanal.length, pausad, igang: ui.igang, anim: animationPagar(), scen: scenPagar(), med: medEl2.hidden, butik: ui.butiksOverlay.hidden, ov: ui.overlay.hidden }),
-  textLogg: () => TEXTLOGG.slice(), pratar: () => !!kanalAktiv || kanal.length > 0 || performance.now() < pratarTill || performance.now() < kanalFri, kanal: () => ({ aktiv: kanalAktiv && { vem: kanalAktiv.vem, text: kanalAktiv.text, vikt: kanalAktiv.vikt }, ko: kanal.map((x) => ({ vem: x.vem, text: x.text, vikt: x.vikt })) }), rostMatning, renderaIkon, ikonLista, handelseLogg, ritningInfo: () => { const c = ritning ? new THREE.Box3().setFromObject(ritning).getCenter(new THREE.Vector3()) : null; return { nyckel: ritningNyckel, linjer: ritning?.children.length || 0, printar: printarFram.size, mitt: c && [+c.x.toFixed(2), +c.y.toFixed(2), +c.z.toFixed(2)] }; }, prata, elHelFig: () => [...(elHel || [])], avkodat, forladdaRepliker, introLager, trampa: (sek) => { trampTest = sek; }, veva: (sek) => { vevTest = sek; }, siktaVagg: (v) => { vaggTest = v; }, vaggarKlara: () => vaggarKlara(), tapetKlara: () => tapetKlara(), nastaInred, prisNu, helaRullar, extruderFull, gardMal, kanLyfta, karraFull, harGava, valdKarra, BARA_SKRAP, SKRAP_RACKVIDD, utlagerKap, startPlats, sattFonster: () => { const n = fonsterLista().length; S.hem = { ...(S.hem || {}), fonster: [...fonsterLista(), { vagg: Object.keys(VAGGAR).filter((k) => !/dorr|fram/i.test(k))[n % 3] || Object.keys(VAGGAR)[0], u: 0.5 }] }; ritaFonster(); uppdateraSkjul(); sparaSnart(); }, medKo, medEl2, uppdatera, stegText: () => { const st = STEG[S.steg]; return st ? (typeof st.text === 'function' ? st.text() : st.text) : ''; }, valdTyp: () => valdTyp(), ritaStart, vagCykel, startYta, cykelStall, byggOmCykeln, SI, stegId, planNasta, fabriksplanSvg, kopDirekt, GAMMALT_SPEL, SPAR_ID, helen: helenTest, helenFig, helenBettan: bettan, helenSkjul, helenRuta, helenRutaYta, pratHelen, geHelen, helenNatt, helenMorgon, helenVillkor, HELEN, HELEN_RADER, introBild, nastaPlats, linjeSkrivare, linjeSpolar, ritaPlan, gardPlanBild, PLAN, rostKoll, invDragInfo: () => invDrag, tidTest: (m) => { klockTest = m; linjeTid = 0; }, invAvsluta, spikaAnim, hammare, efterspel: efterspelTest, efterspelKvar, jul: julTest, julScen, julKrans, julRader, lager: lagerTest, tippStadat, lagerFynd, grav, husvagnFri: () => husvagnFri(), oppnaSkapet: () => oppnaSkapet(), goran: goranTest, polaroid: polaroidTest,  tradgard, ritaTradgard, kollaTradgard, rolfVagn, goranFigur: goran, gor, kollaGoran, goranSittplats, kollaPolaroid, ritaPolaroider, oppnaPolaroider, polaroidVagg, POLAROID, byggSkylt, kollaSkylt, skyltVersion, rostManusDetalj: () => { rostManus(); return rostManus.detalj; }, avbrytJobb, ROLF_TACK, elKlipp: (v, t) => elKlipp(v, t), simulera: (sek, steg = 0.1) => { for (let t = 0; t < sek; t += steg) uppdatera(steg); }, oppnaInv, rymsAlla, invKlick, invFlytta, naraKista, kistPos, matDag, jobbNu, rolfFyndPaket, aliHamtarLadan, skickaData, saljladaAktivera, startaTidtipp, nastaKop, rolfMorgonTack, rolfBrevLast, antalUt, startaDirekt, petgKvarn, petgAktivera, petgText, uppdateraPetg, filTyp, solEffekt, stromBehov, saljMarkerad, oppnaMarknad, oppnaPrintMeny, aliKopLista, stegKonkret, aktivGava, harRecept, harPlacerat, ritaNasta, malRawGet: () => malRaw, ikonHtml, skapaRiktig, VAROR, MASKINER, saljPris, aliSaljLista, kollaSamtal, visaBengt, kajsa, aliVink, aliFig: ali, stegBild, humorAv, varldsBubbla, skjulYta, bodGrupp, vridTips, flyttarBod: () => flyttarBod, dagbokLas: () => dagbokLas, pausad: () => pausad, bradhog, sangSpoke, taltSang: tältSäng, rullePlats, rulleMax, nastaAtgard, STEG, sovDags, kvallKlar, maskinStopp, ritaStopp, spikaSkylt, aliRopar, tittaMot, adressSkylt, introMusik, storHus, husHinder, startaResa, kollaResa, resaSteg, FYND, tillgang, arstid, varme, kollaKyla, uppdateraArstid, folkbokfor, kollaPolett, kanFolkbokfora, rolfHus, MARK_TOMTER, tungtFilament, andraRespekt, nivaUpplast, rolfDialekt, geRolfNummer, vantarPaNummer, kollaMarkTips, ruttnaOverNatten, stallIKyl, kylAntal, kompostera, kopMark, oppnaMark, uppdateraMark, paMark, markTavla, oppnaBokmarken, sparaDagBokmarke, lasBokmarken, miljo, placera, stallBurkar, uppdateraPappa, startaPappaBesok, pappaBesok, FIGURER, malPil, spoke, rektKrock, SKJUL, laggSkrap, paTippen, tippaLast, uppdateraAuto, auto, monteraAuto, rostKlipp, rostNyckel, rostManus, familjSms, oppnaJobbVal, hamtaBeloning, oppnaDagbok, oppnaInkorg, kapitel2Slut, TRIM, bodKlar, kapitelSlut, oppnaSparplatser, sparaPlats, lasPlats, HEM_DELAR, uppdateraSkjul, visaIntro, gardSkrap, laggTill, byt, taBortInv, antalInv, kista, extruder, arende, rolfGubbe, sms, ROLF, flak, bom, postLucka, postlada, webbOrdrar, oppnaDator, BESOK, besok, startaBesok, ata, MAT_VARDE, printLinje, migreraDK, kolfKvarn, kolfAktivera, uppdateraKolf, nastaGamer, trimNiva, plockaUppPlacerad, plockaSkrap, karraRing, foremal, variantFor, valjTyp, husvagnKlick, gastScen, gastDelKlar, husvagn: () => husvagnG, rolfBesok, sackRulle, karraKlick, karraMal, pappaGubbe, grind, ALI, bil, sopbil, sov, TIPP, niva, magnetStrale, oppnaForrad, laggIForrad, vevYta, rulle, kamera, spelare, interaktor, hand, S, spar, skrivare, placerade, skrapLista, ui, kvarn, cykel, marknad, talt, trivsel, startaJobb, uppdateraSkrivare, stallNer, kollaUtsikt, lasUpp, upplast, GEN, flaskS, flyttaFelPlacerade, pilBildTyp: () => pilBildTyp, aliBesok, dagMalLista, visaDagNotis, regelvaktKor: () => regelvakt.kor(), spokeGrupp: () => spoke.grupp, bodSpoke, fonsterSpoke };   /* A-076 */   /* A-069 */
+  textLogg: () => TEXTLOGG.slice(), pratar: () => !!kanalAktiv || kanal.length > 0 || performance.now() < pratarTill || performance.now() < kanalFri, kanal: () => ({ aktiv: kanalAktiv && { vem: kanalAktiv.vem, text: kanalAktiv.text, vikt: kanalAktiv.vikt }, ko: kanal.map((x) => ({ vem: x.vem, text: x.text, vikt: x.vikt })) }), rostMatning, renderaIkon, ikonLista, handelseLogg, ritningInfo: () => { const c = ritning ? new THREE.Box3().setFromObject(ritning).getCenter(new THREE.Vector3()) : null; return { nyckel: ritningNyckel, linjer: ritning?.children.length || 0, printar: printarFram.size, mitt: c && [+c.x.toFixed(2), +c.y.toFixed(2), +c.z.toFixed(2)] }; }, prata, elHelFig: () => [...(elHel || [])], avkodat, forladdaRepliker, introLager, trampa: (sek) => { trampTest = sek; }, veva: (sek) => { vevTest = sek; }, siktaVagg: (v) => { vaggTest = v; }, vaggarKlara: () => vaggarKlara(), tapetKlara: () => tapetKlara(), nastaInred, prisNu, helaRullar, extruderFull, gardMal, kanLyfta, karraFull, harGava, valdKarra, BARA_SKRAP, SKRAP_RACKVIDD, utlagerKap, startPlats, sattFonster: () => { const n = fonsterLista().length; S.hem = { ...(S.hem || {}), fonster: [...fonsterLista(), { vagg: Object.keys(VAGGAR).filter((k) => !/dorr|fram/i.test(k))[n % 3] || Object.keys(VAGGAR)[0], u: 0.5 }] }; ritaFonster(); uppdateraSkjul(); sparaSnart(); }, medKo, medEl2, uppdatera, stegText: () => { const st = STEG[S.steg]; return st ? (typeof st.text === 'function' ? st.text() : st.text) : ''; }, valdTyp: () => valdTyp(), ritaStart, vagCykel, startYta, cykelStall, byggOmCykeln, SI, stegId, planNasta, fabriksplanSvg, kopDirekt, GAMMALT_SPEL, SPAR_ID, helen: helenTest, helenFig, helenBettan: bettan, helenSkjul, helenRuta, helenRutaYta, pratHelen, geHelen, helenNatt, helenMorgon, helenVillkor, HELEN, HELEN_RADER, introBild, nastaPlats, linjeSkrivare, linjeSpolar, ritaPlan, gardPlanBild, PLAN, rostKoll, invDragInfo: () => invDrag, tidTest: (m) => { klockTest = m; linjeTid = 0; }, invAvsluta, spikaAnim, hammare, efterspel: efterspelTest, efterspelKvar, jul: julTest, julScen, julKrans, julRader, lager: lagerTest, tippStadat, lagerFynd, grav, husvagnFri: () => husvagnFri(), oppnaSkapet: () => oppnaSkapet(), goran: goranTest, polaroid: polaroidTest,  tradgard, ritaTradgard, kollaTradgard, rolfVagn, goranFigur: goran, gor, kollaGoran, goranSittplats, kollaPolaroid, ritaPolaroider, oppnaPolaroider, polaroidVagg, POLAROID, byggSkylt, kollaSkylt, skyltVersion, rostManusDetalj: () => { rostManus(); return rostManus.detalj; }, avbrytJobb, ROLF_TACK, elKlipp: (v, t) => elKlipp(v, t), simulera: (sek, steg = 0.1) => { for (let t = 0; t < sek; t += steg) uppdatera(steg); }, oppnaInv, rymsAlla, invKlick, invFlytta, naraKista, kistPos, matDag, jobbNu, rolfFyndPaket, aliHamtarLadan, skickaData, saljladaAktivera, startaTidtipp, nastaKop, rolfMorgonTack, rolfBrevLast, antalUt, startaDirekt, petgKvarn, petgAktivera, petgText, uppdateraPetg, filTyp, solEffekt, stromBehov, saljMarkerad, oppnaMarknad, oppnaPrintMeny, aliKopLista, stegKonkret, aktivGava, harRecept, harPlacerat, ritaNasta, malRawGet: () => malRaw, ikonHtml, skapaRiktig, VAROR, MASKINER, saljPris, aliSaljLista, kollaSamtal, visaBengt, kajsa, aliVink, aliFig: ali, stegBild, humorAv, varldsBubbla, skjulYta, bodGrupp, vridTips, flyttarBod: () => flyttarBod, dagbokLas: () => dagbokLas, pausad: () => pausad, bradhog, sangSpoke, taltSang: tältSäng, rullePlats, rulleMax, nastaAtgard, STEG, sovDags, kvallKlar, maskinStopp, ritaStopp, spikaSkylt, aliRopar, tittaMot, adressSkylt, introMusik, storHus, husHinder, startaResa, kollaResa, resaSteg, FYND, tillgang, arstid, varme, kollaKyla, uppdateraArstid, folkbokfor, kollaPolett, kanFolkbokfora, rolfHus, MARK_TOMTER, tungtFilament, andraRespekt, nivaUpplast, rolfDialekt, geRolfNummer, vantarPaNummer, kollaMarkTips, ruttnaOverNatten, stallIKyl, kylAntal, kompostera, kopMark, oppnaMark, uppdateraMark, paMark, markTavla, oppnaBokmarken, sparaDagBokmarke, lasBokmarken, miljo, placera, stallBurkar, uppdateraPappa, startaPappaBesok, pappaBesok, FIGURER, malPil, spoke, rektKrock, SKJUL, laggSkrap, paTippen, tippaLast, uppdateraAuto, auto, monteraAuto, rostKlipp, rostNyckel, rostManus, familjSms, oppnaJobbVal, hamtaBeloning, oppnaDagbok, oppnaInkorg, kapitel2Slut, TRIM, bodKlar, kapitelSlut, oppnaSparplatser, sparaPlats, lasPlats, HEM_DELAR, uppdateraSkjul, visaIntro, gardSkrap, laggTill, byt, taBortInv, antalInv, kista, extruder, arende, rolfGubbe, sms, ROLF, flak, bom, postLucka, postlada, webbOrdrar, oppnaDator, BESOK, besok, startaBesok, ata, MAT_VARDE, printLinje, migreraDK, kolfKvarn, kolfAktivera, uppdateraKolf, nastaGamer, trimNiva, plockaUppPlacerad, plockaSkrap, karraRing, foremal, variantFor, valjTyp, husvagnKlick, gastScen, gastDelKlar, husvagn: () => husvagnG, rolfBesok, sackRulle, karraKlick, karraMal, pappaGubbe, grind, ALI, bil, sopbil, sov, TIPP, niva, magnetStrale, oppnaForrad, laggIForrad, vevYta, rulle, kamera, spelare, interaktor, hand, S, spar, skrivare, placerade, skrapLista, ui, kvarn, cykel, marknad, talt, trivsel, startaJobb, uppdateraSkrivare, stallNer, kollaUtsikt, lasUpp, upplast, GEN, flaskS, flyttaFelPlacerade, pilBildTyp: () => pilBildTyp, aliBesok, dagMalLista, visaDagNotis, regelvaktKor: () => regelvakt.kor(), spokeGrupp: () => spoke.grupp, bodSpoke, fonsterSpoke, mimikBilder, VYER4 };   /* A-078 */   /* A-076 */   /* A-069 */
 
 startaLoop(uppdatera, { scen, kamera, renderer });
 
